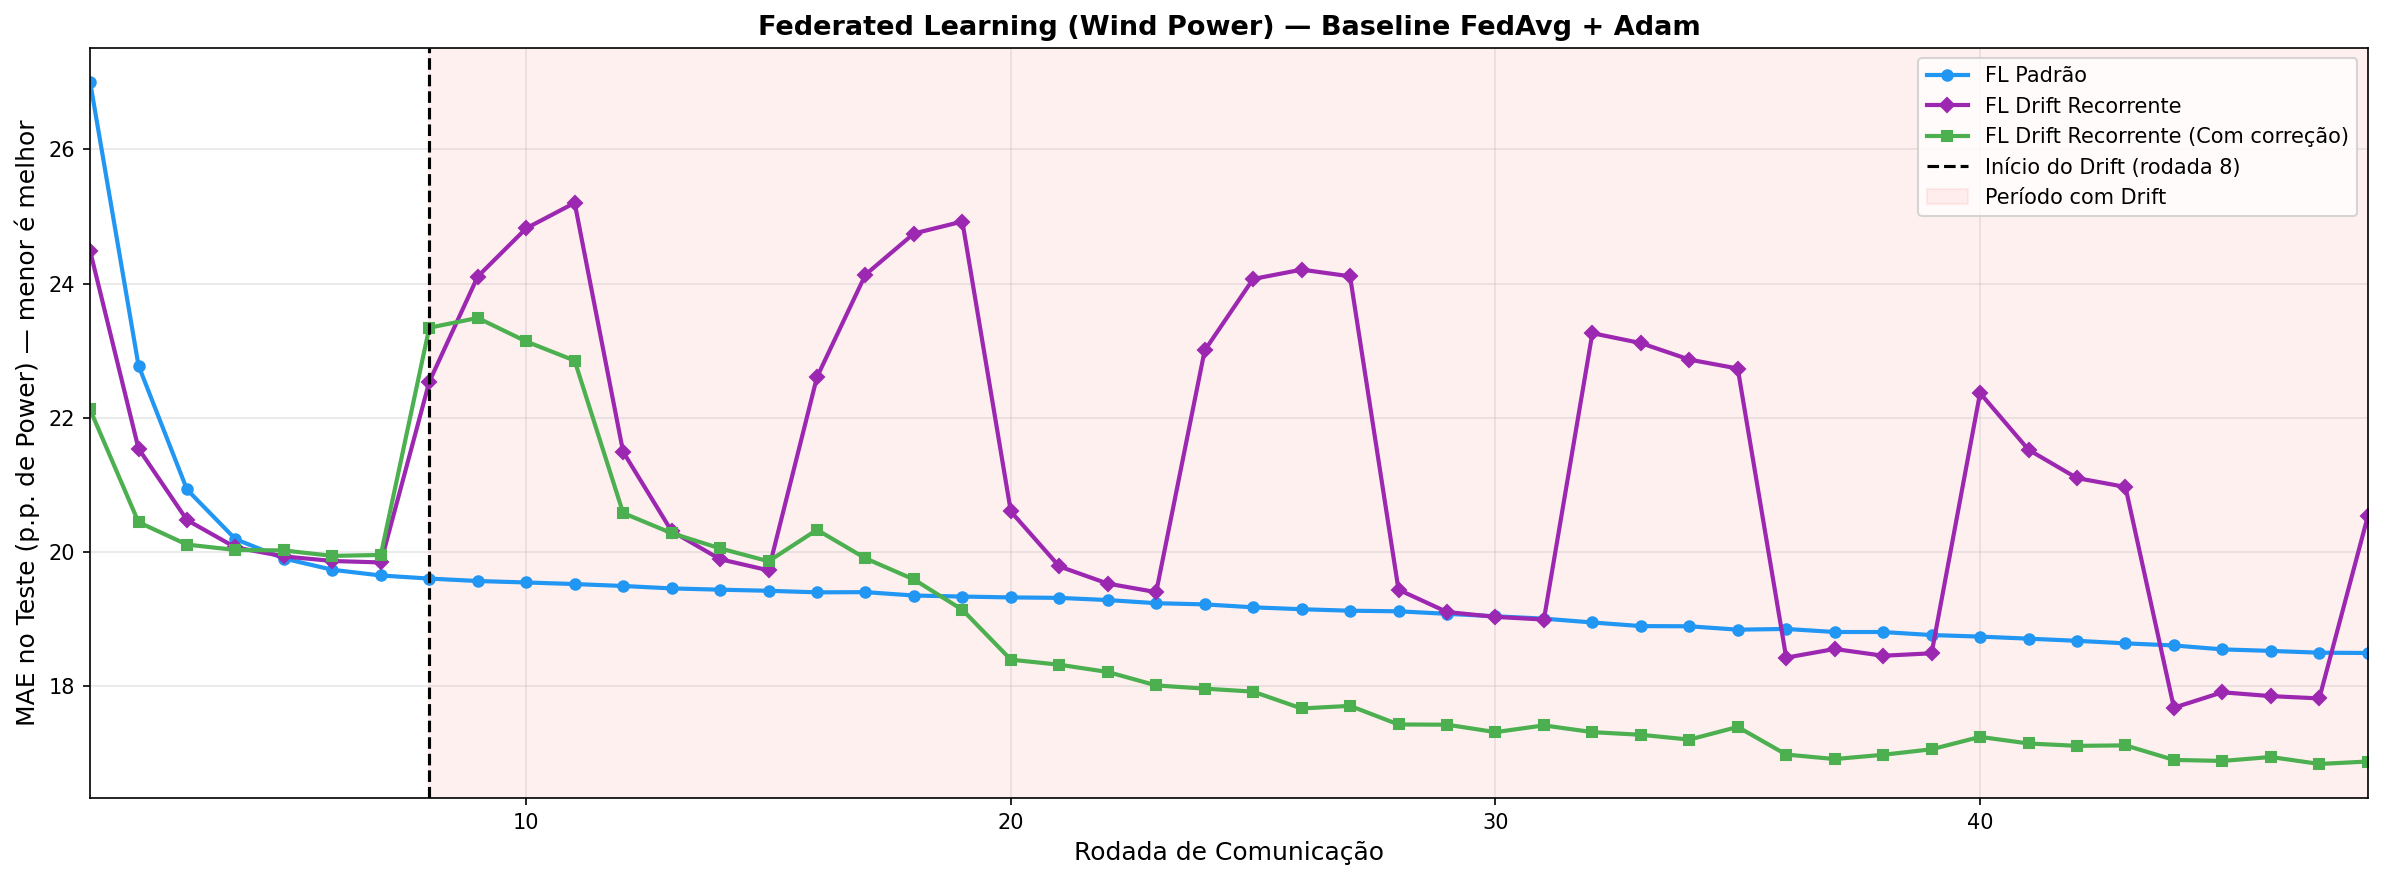
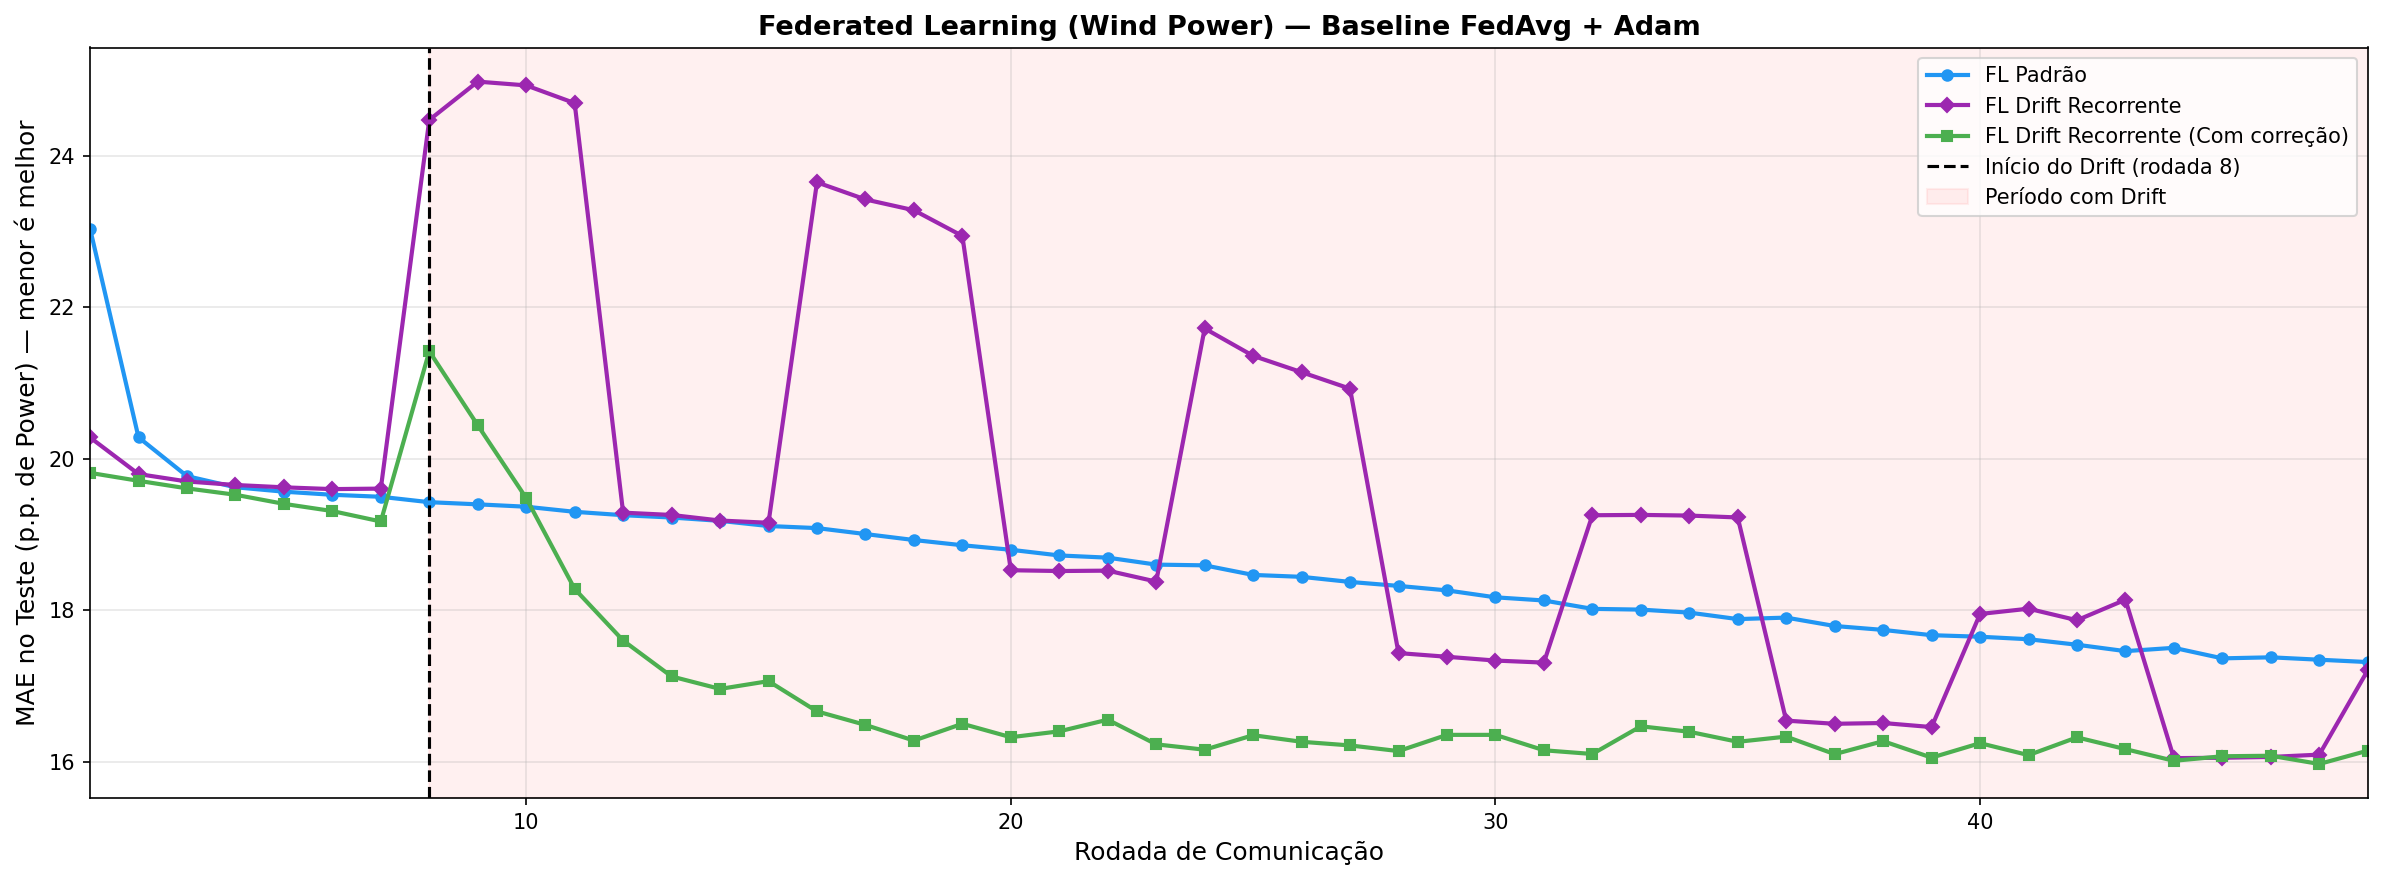
[RESTORATION_V4]

diff --git a/src/data.py b/src/data.py
@@ -154,9 +154,9 @@ def _load_all(data_dir: str) -> dict[int, dict[str, np.ndarray]]:
         df = pd.read_csv(path)
         df["Time"] = pd.to_datetime(df["Time"])
         month = df["Time"].dt.month.to_numpy(dtype=np.int8)
-        X_raw, y = _engineer(df)
-        locations[loc_id] = {"X_raw": X_raw, "y": y, "month": month}
-        pooled.append(X_raw)
+        x_raw, y = _engineer(df)
+        locations[loc_id] = {"X_raw": x_raw, "y": y, "month": month}
+        pooled.append(x_raw)
 
     pool = np.vstack(pooled)
     _feature_min = pool.min(axis=0)

diff --git a/src/config.py b/src/config.py
@@ -14,7 +14,7 @@ SEED = 42
 # ── Federated Learning ───────────────────────────────────────────────────────
 NUM_CLIENTS = 4  # 1 cliente por local (Location1..Location4)
 NUM_ROUNDS = 48  # 7 warmup verão + 10 ciclos JJA↔DJF de CYCLE_LEN rodadas (8..47)
-LOCAL_EPOCHS = 3
+LOCAL_EPOCHS = 5
 BATCH_SIZE = 32
 LEARNING_RATE = 0.01
 
@@ -26,7 +26,7 @@ DRIFT_WINDOW_SIZE = 5
 DRIFT_THRESHOLD = 1.3
 
 # SeasonalReplayBuffer: amostras máximas guardadas por estação, em cada cliente.
-REPLAY_BUFFER_SIZE = 250
+REPLAY_BUFFER_SIZE = 500
 # ── Dataset ──────────────────────────────────────────────────────────────────
 DATA_DIR = os.path.join(os.path.dirname(os.path.dirname(os.path.abspath(__file__))), "data")
 # 6 numéricas brutas + 4 sin/cos de direção (10m e 100m) + 5 derivadas físicas

diff --git a/src/federated_service.py b/src/federated_service.py
@@ -18,7 +18,7 @@ class FederatedService:
         model.train()
 
         loader = DataLoader(dataset, batch_size=BATCH_SIZE, shuffle=True, num_workers=0)
-        optimizer = optim.SGD(model.parameters(), lr=0.01, momentum=0.9)
+        optimizer = optim.SGD(model.parameters(), lr=0.01, momentum=0.9, weight_decay=1e-4)
         criterion = nn.MSELoss()
 
         for _ in range(LOCAL_EPOCHS):

diff --git a/src/utils/downsample_dataset.py b/src/utils/downsample_dataset.py
@@ -54,7 +54,7 @@ def downsample_one(input_path: str, output_path: str) -> tuple[int, dict]:
     out = pd.concat([summer, winter]).sort_values("Time").reset_index(drop=True)
 
     if not (800 <= len(out) <= 1000):
-        raise RuntimeError(f"Tamanho fora do esperado para {os.path.basename(input_path)}: " f"{len(out)} linhas (esperado 800-1000)")
+        raise RuntimeError(f"Tamanho fora do esperado para {os.path.basename(input_path)}: {len(out)} linhas (esperado 800-1000)")
 
     out.to_csv(output_path, index=False)
     months_count = dict(Counter(out["Time"].dt.month.tolist()))

diff --git a/src/visualization.py b/src/visualization.py
@@ -40,7 +40,7 @@ def plot_results(histories: dict, drift_round: int = DRIFT_ROUND) -> None:
     """
     rounds = list(range(1, NUM_ROUNDS + 1))
 
-    fig, ax = plt.subplots(figsize=(16, 6))
+    _, ax = plt.subplots(figsize=(16, 6))
 
     for label, entry in histories.items():
         mae_h = _mae_of(entry)